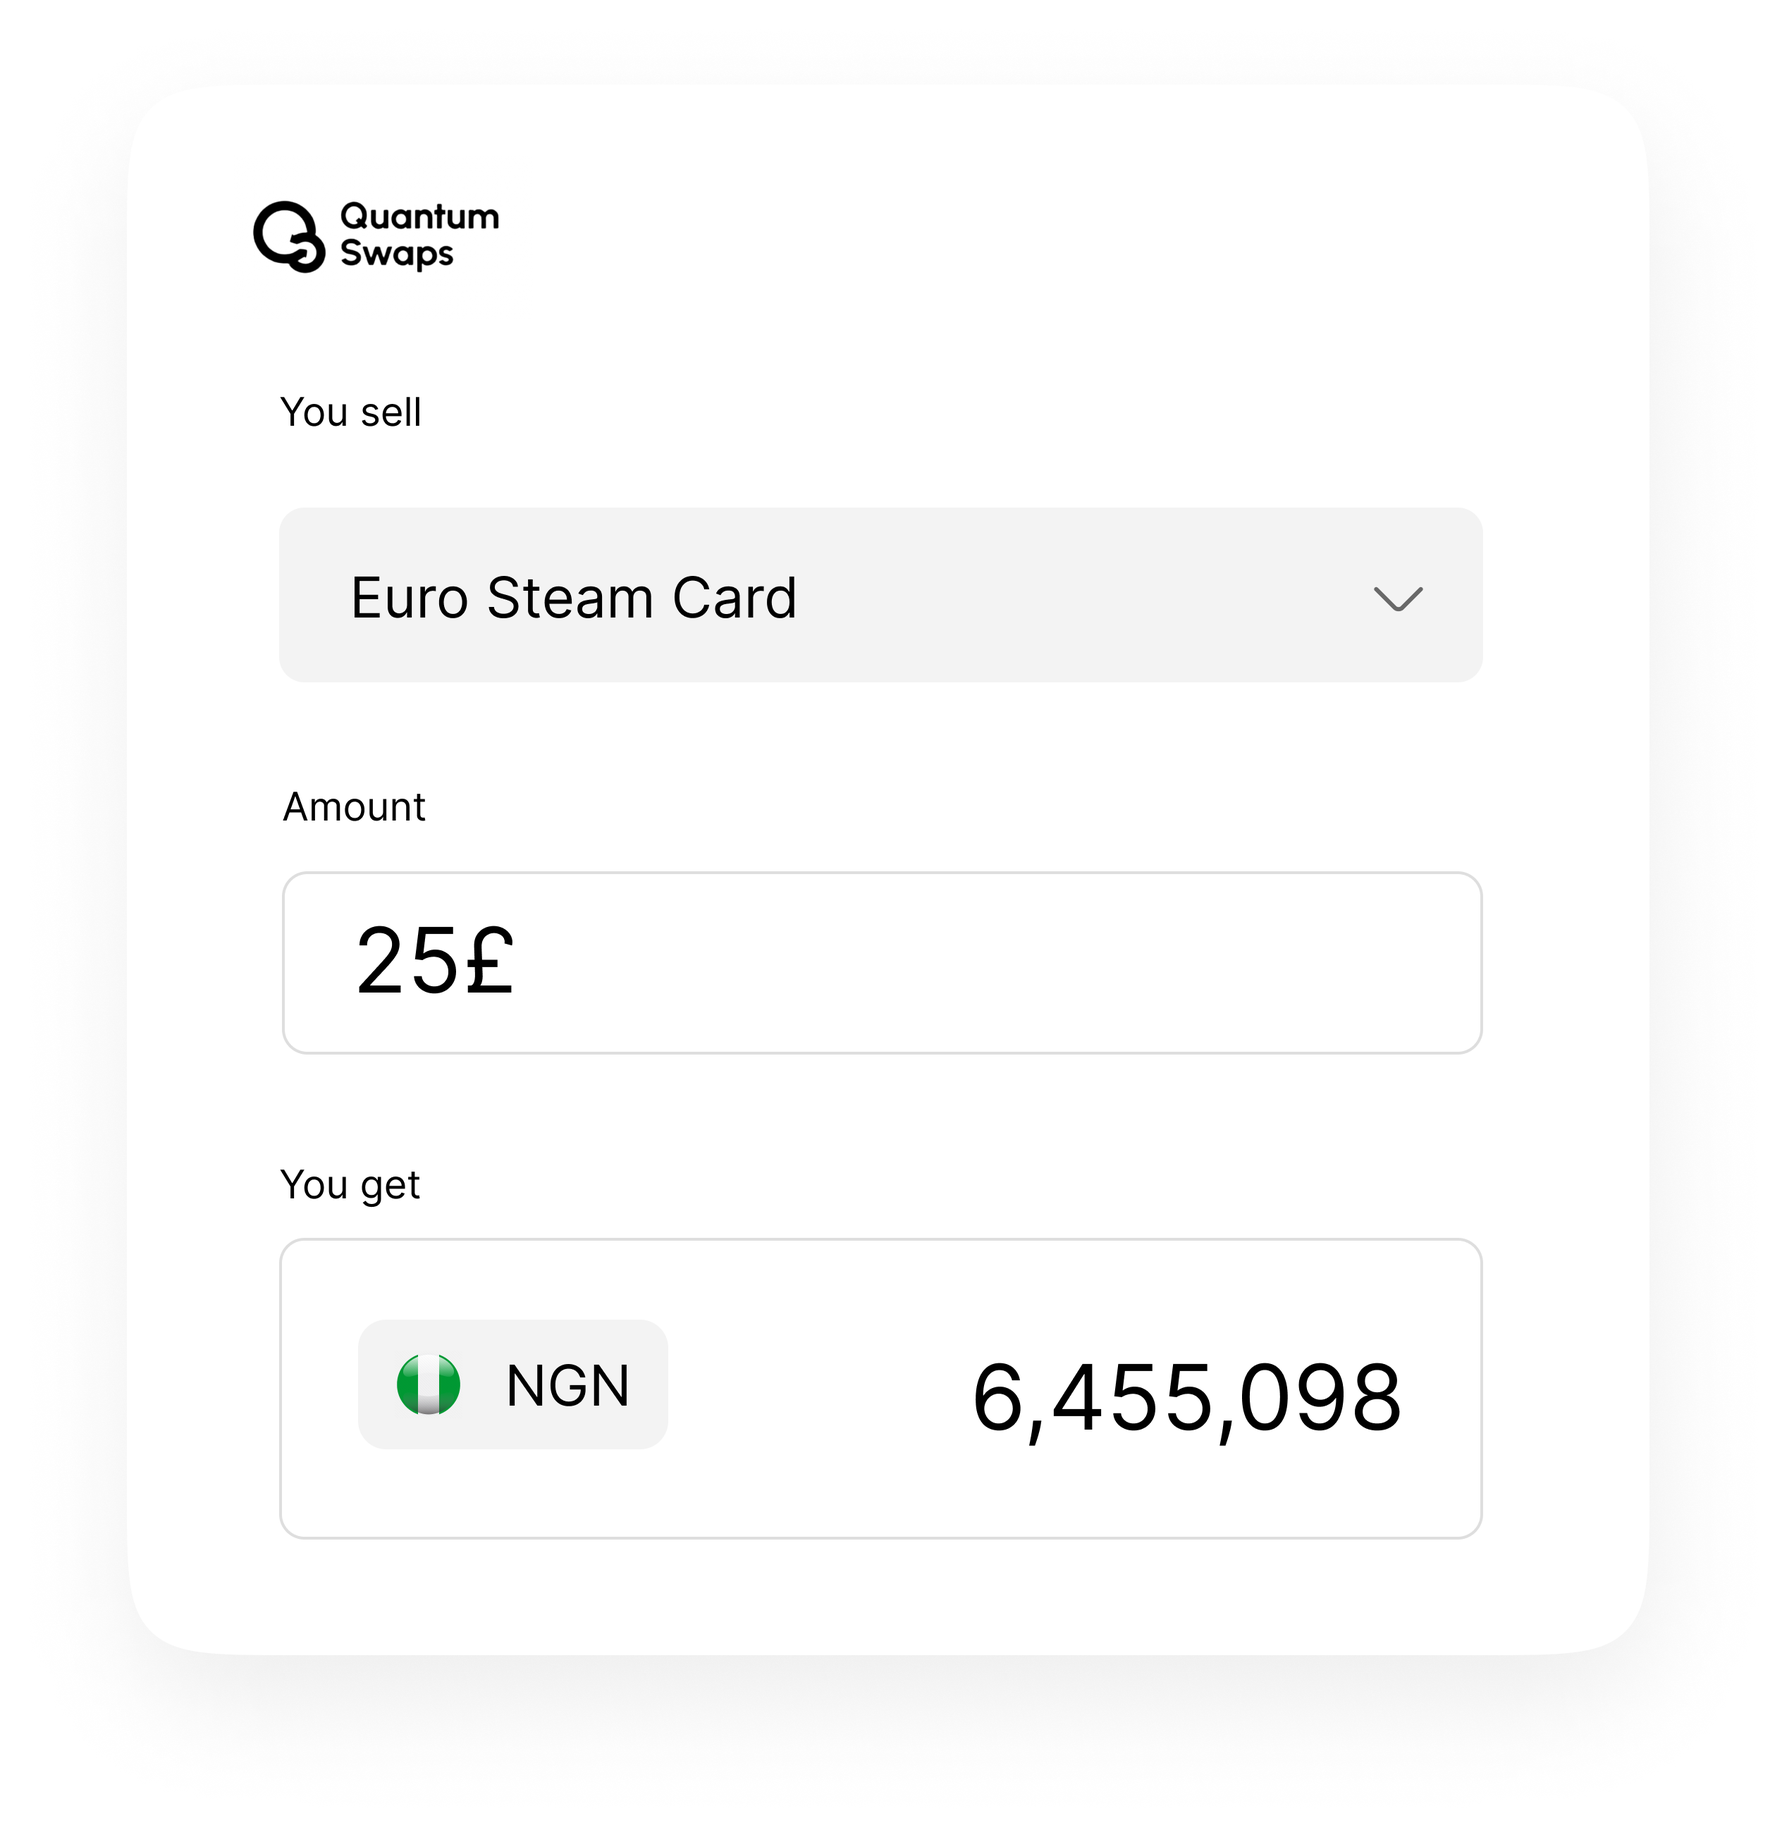
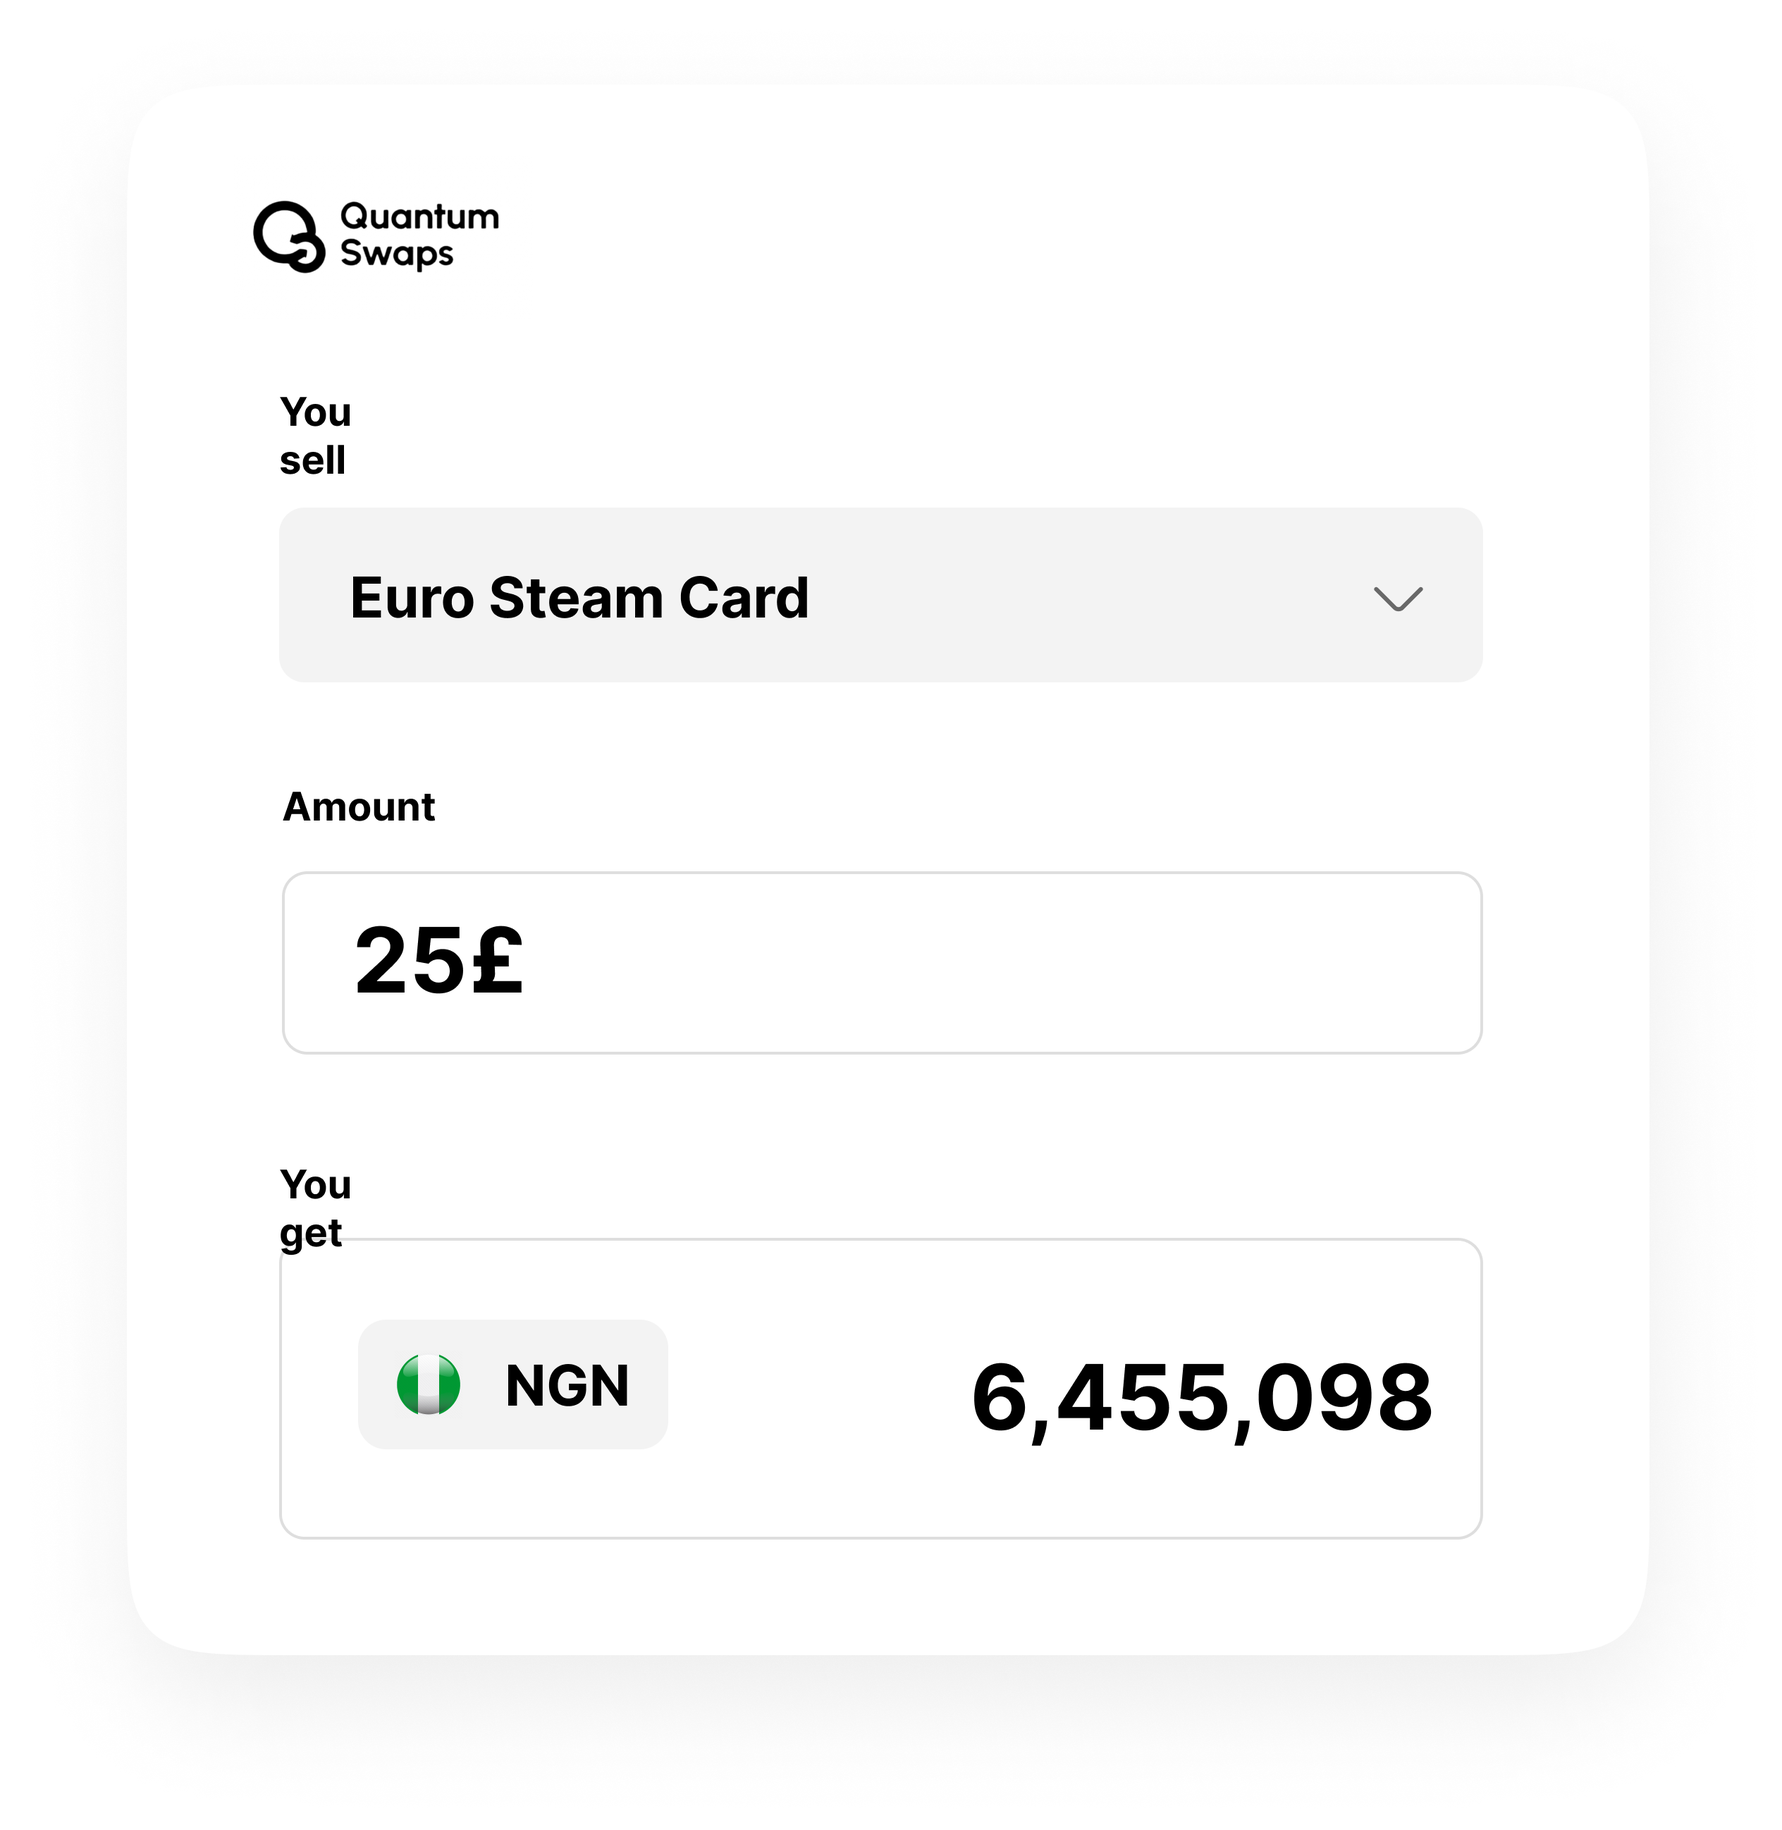
Add files via upload

diff --git a/src/components/ClientCrousel.tsx b/src/components/ClientCrousel.tsx
@@ -1,8 +1,14 @@
 import { Swiper, SwiperSlide } from 'swiper/react';
 import 'swiper/css';
 import { Autoplay } from 'swiper/modules';
-import Client from './../assets/client.png';
-import Appox from './../assets/appox.png';
+import Client1 from './../assets/client/client-1.png';
+import Client2 from './../assets/client/client-2.png';
+import Client3 from './../assets/client/client-3.png';
+import Client4 from './../assets/client/client-4.png';
+import Client5 from './../assets/client/client-5.png';
+import Client6 from './../assets/client/client-6.png';
+
+
 
 export default function ClientCrousel() {
 
@@ -15,6 +21,7 @@ export default function ClientCrousel() {
                     disableOnInteraction: false,
                 }}
                 loop={true}
+                centeredSlides={true}
                 slidesPerView={'auto'}
                 modules={[Autoplay]}
                 className="mySwiper"
@@ -22,15 +29,8 @@ export default function ClientCrousel() {
                 {
                     Testimonial.map((item, idx) => {
                         return (
-                            <SwiperSlide className="bg-[#FFF6F8] p-7 rounded-2xl max-w-[300px] md:max-w-sm h-[200px]" key={idx}>
-                                <div>
-                                    <img src={Appox} alt="icon" className="h-5 w-5" />
-                                </div>
-                                <p className="font-medium text-sm md:text-base my-5">{item.said}</p>
-                                <div className="flex gap-4 items-center">
-                                    <img src={item.image} alt='Person Image' className="h-10 w-10" />
-                                    <p className="font-medium opacity-80 text-sm">{item.by}</p>
-                                </div>
+                            <SwiperSlide className="rounded-2xl max-w-[300px] md:max-w-sm h-[200px]" key={idx}>
+                                <img src={item} alt="icon" className="h-full w-full object-contain" />
                             </SwiperSlide>
                         )
                     })
@@ -40,35 +40,22 @@ export default function ClientCrousel() {
     );
 }
 
-const Testimonial = [
-    {
-        image: Client,
-        said: 'Their customer service was the best and i got credited in 3 mins',
-        by: 'James Friday'
-    },
-    {
-        image: Client,
-        said: 'Their customer service was the best and i got credited in 3 mins',
-        by: 'James Friday'
-    },
-    {
-        image: Client,
-        said: 'Their customer service was the best and i got credited in 3 mins',
-        by: 'James Friday'
-    },
-    {
-        image: Client,
-        said: 'Their customer service was the best and i got credited in 3 mins',
-        by: 'James Friday'
-    },
-    {
-        image: Client,
-        said: 'Their customer service was the best and i got credited in 3 mins',
-        by: 'James Friday'
-    },
-    {
-        image: Client,
-        said: 'Their customer service was the best and i got credited in 3 mins',
-        by: 'James Friday'
-    },
-]
+const Testimonial = [Client1, Client2, Client3, Client4, Client5, Client6,]
+
+
+// {
+//     Testimonial.map((item, idx) => {
+//         return (
+//             <SwiperSlide className="bg-[#FFF6F8] p-7 rounded-2xl max-w-[300px] md:max-w-sm h-[200px]" key={idx}>
+//                 <div>
+//                     <img src={Appox} alt="icon" className="h-5 w-5" />
+//                 </div>
+//                 <p className="font-medium text-sm md:text-base my-5">{item.said}</p>
+//                 <div className="flex gap-4 items-center">
+//                     <img src={item.image} alt='Person Image' className="h-10 w-10" />
+//                     <p className="font-medium opacity-80 text-sm">{item.by}</p>
+//                 </div>
+//             </SwiperSlide>
+//         )
+//     })
+// }

diff --git a/src/components/Banner.tsx b/src/components/Banner.tsx
@@ -11,9 +11,9 @@ export default function Banner() {
                         data-aos="fade-up"
 
                         className="xl:text-7xl lg:text-5xl md:text-4xl text-2xl font-semibold xl:leading-tight lg:leading-tight md:leading-tight">
-                        Trade your crypto and valid{' '}
+                        Trade your cryptocurrency and{' '}
                         <br className='hidden md:block' />
-                        giftcards for{' '}
+                        valid giftcards to{' '}
                         <span className="bg-clip-text bg-gradient-to-br from-primary to-secondary from-0% to-100% fill-none text-white/0">
                             Naira{' '}
                         </span>
@@ -23,18 +23,17 @@ export default function Banner() {
                         data-aos="fade-up"
                         data-aos-delay="100"
                         className="md:max-w-2xl mx-auto xl:text-2xl lg:text-lg md:text-base text-sm font-medium">
-                        Seamlessly convert your  cryptocurrency
+                        Seamlessly convert your cryptocurrency
                         <br className='md:hidden block' />
-                        holdings into
+                        to fiat with
                         <br className='hidden md:block' />
-                        Nigerian Naira with
-                        <br className='md:hidden block' />
                         lightning-fast speed.
                     </p>
                     <a
                         data-aos="fade-up"
                         data-aos-delay="200"
-                        href="" className='inline-block mx-auto'>
+                        target='_blank' href="https://api.whatsapp.com/send/?phone=2347049688012"
+                        className='inline-block mx-auto'>
                         <div className="flex items-center xl:gap-5 gap-3 px-6 xl:py-5 bg-secondary rounded-xl lg:py-4 py-3.5 hover:bg-primary">
                             <span className="font-medium xl:text-xl md:text-lg text-base">
                                 Start trading

diff --git a/src/components/Swaps.tsx b/src/components/Swaps.tsx
@@ -5,7 +5,7 @@ export default function Swaps() {
         <section className='text-black py-16 md:py-20'>
             <div className="px-7 md:px-16 lg:px-24">
                 <h2 data-aos="fade-up"
-                    data-aos-delay='100' className='max-w-4xl lg:text-5xl text-2xl md:text-4xl font-medium text-center mx-auto'>Why choose Quantum swaps?</h2>
+                    data-aos-delay='100' className='max-w-4xl lg:text-5xl text-2xl md:text-4xl font-bold text-center mx-auto'>Why choose Quantum swaps?</h2>
             </div>
             <div className="grid lg:grid-cols-2 mt-16 md:mt-20">
                 <div className="bg-[#FFF6F8] px-7 md:px-16 lg:px-24 py-10 md:py-16 lg:py-20 flex flex-col gap-6">
@@ -15,9 +15,9 @@ export default function Swaps() {
                                 <div data-aos="fade-up"
                                     data-aos-delay={(idx + 1) * 30} key={idx} className={`text-left p-7 border border-black/20 rounded-2xl ${idx === 1 ? 'bg-[#7E081E] text-white' : 'text-black'} flex flex-col gap-5`}>
                                     <h4 data-aos="fade-up"
-                                        data-aos-delay={(idx + 1) * 50} className="lg:text-xl text-base font-semibold">{idx + 1}.{' '}{item.title}</h4>
+                                        data-aos-delay={(idx + 1) * 50} className="lg:text-xl text-base font-bold">{idx + 1}.{' '}{item.title}</h4>
                                     <p data-aos="fade-up"
-                                        data-aos-delay={(idx + 1) * 70} className="font-normal opacity-60 text-sm md:text-base">{item.description}</p>
+                                        data-aos-delay={(idx + 1) * 70} className="font-bold opacity-60 text-sm md:text-base">{item.description}</p>
                                 </div>
                             )
                         })

diff --git a/src/components/SupportedCoin.tsx b/src/components/SupportedCoin.tsx
@@ -19,7 +19,7 @@ export default function SupportedCoin() {
                     <h2
                         data-aos="fade-up"
                         data-aos-delay="100"
-                        className='xl:text-4xl md:text-[28px] text-2xl font-medium'>More than 50+ crypto <br /> coins supported</h2>
+                        className='xl:text-4xl md:text-[28px] text-2xl font-bold'>More than 50+ crypto <br /> coins supported</h2>
                     <div className="flex items-center">
                         {
                             Coins.map((_, idx) => {
@@ -31,7 +31,7 @@ export default function SupportedCoin() {
                         }
                     </div>
                     <p data-aos="fade-up"
-                        data-aos-delay="500" className='text-tertiary xl:text-3xl md:text-2xl text-xl max-w-lg'>More than creating a seamless platform for you to perform crypto transactions, we are with you every step of the way, providing you with tips and tricks to becoming a crypto guru.
+                        data-aos-delay="500" className='text-tertiary font-bold xl:text-3xl md:text-2xl text-xl max-w-lg'>More than creating a seamless platform for you to perform crypto transactions, we are with you every step of the way, providing you with tips and tricks to becoming a crypto guru.
                     </p>
                 </div>
             </div>

diff --git a/src/components/GiftCard.tsx b/src/components/GiftCard.tsx
@@ -19,7 +19,7 @@ export default function GiftCard() {
                     <h2
                         data-aos="fade-up"
                         data-aos-delay="100"
-                        className='xl:text-4xl md:text-[28px] text-2xl font-medium'>Multiple Valid Giftcards <br /> Supported</h2>
+                        className='xl:text-4xl md:text-[28px] text-2xl font-bold'>Multiple Valid Giftcards <br /> Supported</h2>
                     <div className="flex items-center gap-3">
                         {
                             Cards.map((_, idx) => {
@@ -33,7 +33,7 @@ export default function GiftCard() {
                     <p
                         data-aos="fade-up"
                         data-aos-delay="300"
-                        className='text-tertiary xl:text-3xl md:text-2xl text-xl max-w-lg'>More than creating a seamless platform for you to perform crypto transactions, we are with you every step of the way, providing you with tips and tricks to becoming a crypto guru.
+                        className='text-tertiary font-bold xl:text-3xl md:text-2xl text-xl max-w-lg'>More than creating a seamless platform for you to perform crypto transactions, we are with you every step of the way, providing you with tips and tricks to becoming a crypto guru.
                     </p>
                 </div>
             </div>

diff --git a/src/components/HowToSell.tsx b/src/components/HowToSell.tsx
@@ -7,7 +7,7 @@ export default function HowToSell(props: { bgColor: any; heading: string | numbe
             <h2
                 data-aos="fade-up"
                 data-aos-delay="100"
-                className='max-w-4xl lg:text-5xl text-2xl md:text-4xl font-medium text-center mx-auto'>{props.heading}</h2>
+                className='max-w-4xl lg:text-5xl text-2xl md:text-4xl font-bold text-center mx-auto'>{props.heading}</h2>
             <div className="grid md:grid-cols-3 items-start gap-12 mt-20">
                 {
                     props.section.map((item, idx) => {
@@ -20,7 +20,7 @@ export default function HowToSell(props: { bgColor: any; heading: string | numbe
                                 <h4 data-aos="fade-up"
                                     data-aos-delay={(idx + 1) * 60} className="lg:text-xl text-base font-semibold">{idx + 1}.{' '}{item.title}</h4>
                                 <p data-aos="fade-up"
-                                    data-aos-delay={(idx + 1) * 100} className="max-w-xs font-normal opacity-60 text-sm md:text-base">{item.description}</p>
+                                    data-aos-delay={(idx + 1) * 100} className="max-w-xs opacity-60 text-sm md:text-base font-bold">{item.description}</p>
                             </div>
                         )
                     })

diff --git a/src/components/Footer.tsx b/src/components/Footer.tsx
@@ -1,4 +1,6 @@
 import Logo from './../assets/logo.png';
+import Tiktok from './../assets/tiktok.png';
+import Instagram from './../assets/instagram.png';
 
 export default function Footer() {
     return (
@@ -6,6 +8,10 @@ export default function Footer() {
             <div className="border border-white/40 flex flex-wrap justify-between items-center p-8 gap-10">
                 <div>
                     <img src={Logo} alt="Logo" className='h-14 w-auto' />
+                </div>
+                <div className="flex items-center justify-center gap-x-5">
+                    <a href=""> <img src={Tiktok} className='h-5 w-5' alt="icon" /></a>
+                    <a href=""> <img src={Instagram} className='h-5 w-5' alt="icon" /></a>
                 </div>
                 <div className="text-white">
                     <p className='text-sm'>Copyright © 2024 Quantum Swap</p>

diff --git a/src/components/Navbar.tsx b/src/components/Navbar.tsx
@@ -22,7 +22,7 @@ export default function Navbar() {
 
     return (
         <header className={scrolled ? 'inset-x-0 fixed top-0 bg-[#250004] z-50 translate-y-0 transition-all ease-linear duration-500' : 'inset-x-0 absolute s top-10 z-50'}>
-            <div className={`fixed inset-0 h-screen w-screen ${open ? 'bg-black/50' : 'bg-transparent'} transition-colors ease-in-out duration-500 z-30`} />
+            <div className={`fixed inset-0 h-screen w-screen ${open ? 'translate-y-0 bg-black/50' : 'bg-transparent -translate-y-[150vh]'} transition-colors ease-in-out duration-500 z-30`} />
             <nav className="flex items-center justify-between lg:px24 md:px-16 px-8 bg-transparent">
                 <div className={`relative z-50 flex items-center justify-between w-full md:w-auto ${scrolled && 'bg-[#250004]'}`}>
                     <div>

diff --git a/src/components/Clients.tsx b/src/components/Clients.tsx
@@ -4,7 +4,7 @@ export default function Clients() {
     return (
         <section className='py-16 md:py-20 text-black'>
             <div className="px-7 md:px-16 lg:px-24">
-                <h2 className='max-w-4xl lg:text-5xl text-2xl md:text-4xl font-medium text-center mx-auto'>Satisfied Clients</h2>
+                <h2 className='max-w-4xl lg:text-5xl text-2xl md:text-4xl font-bold text-center mx-auto'>Satisfied Clients</h2>
             </div>
             <div className="mt-16">
                 <ClientCrousel />
